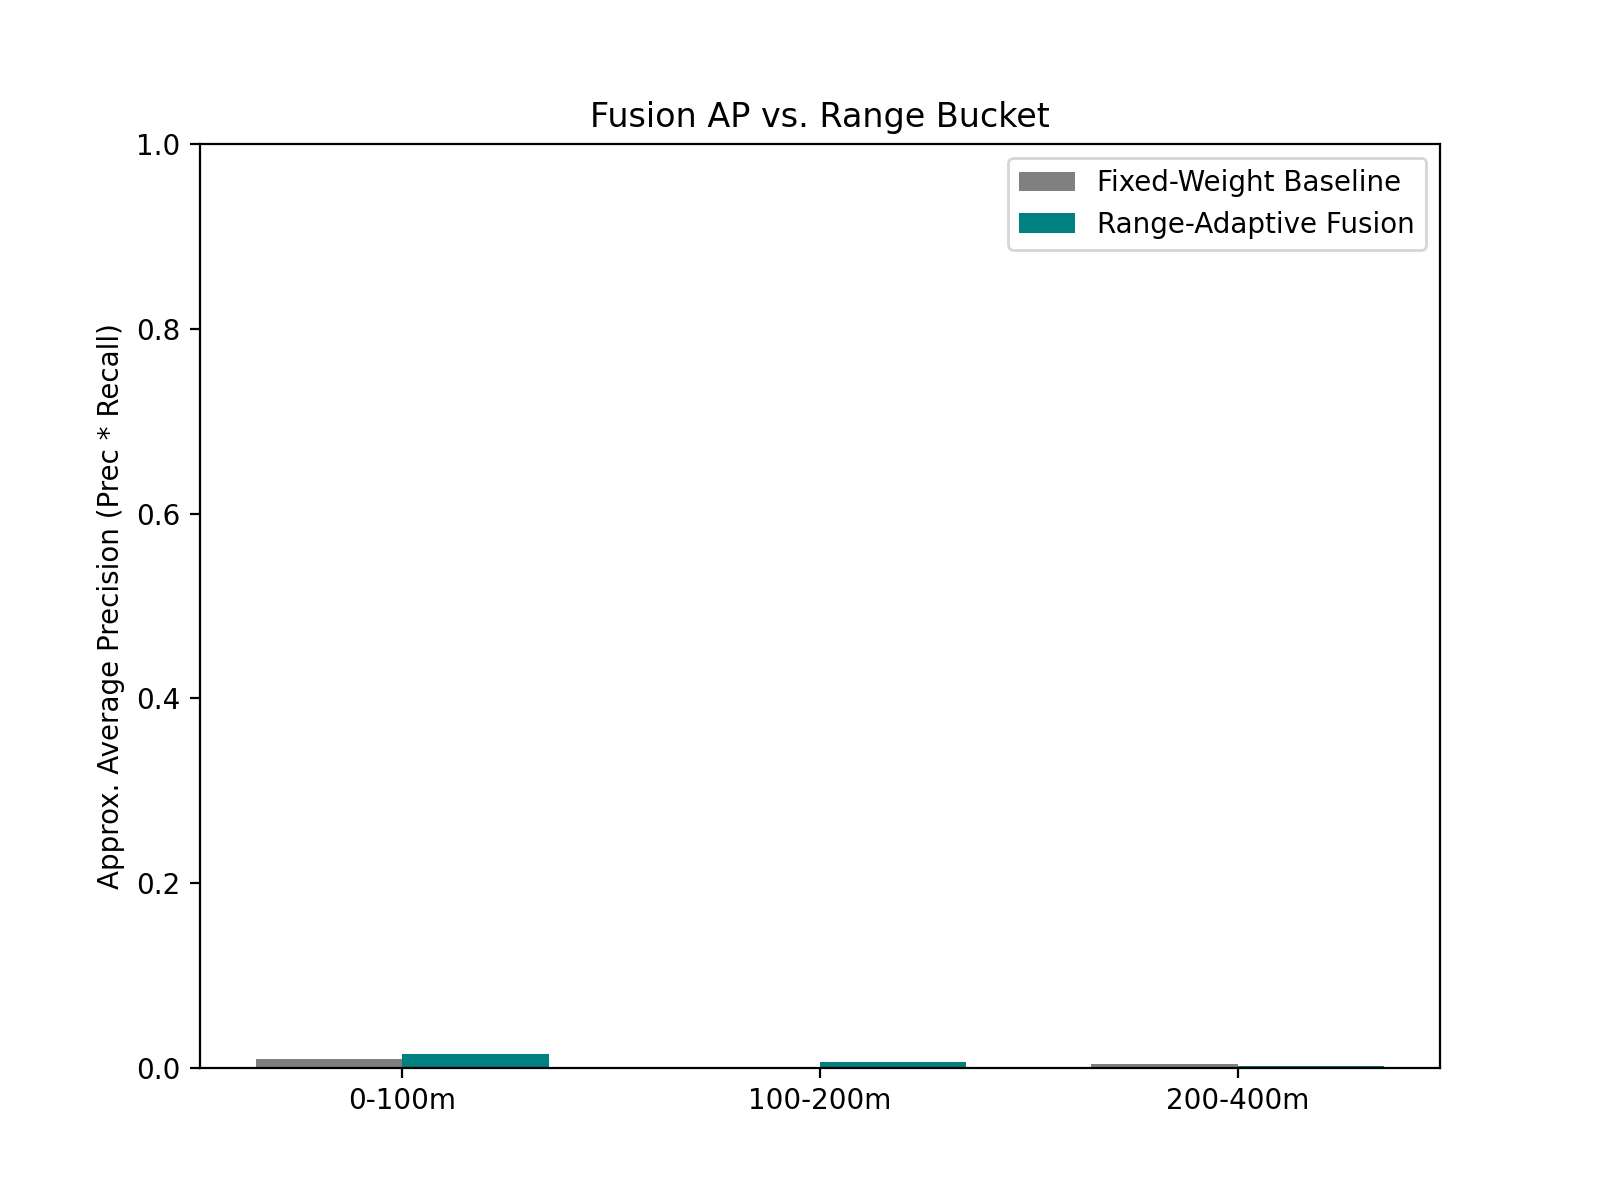
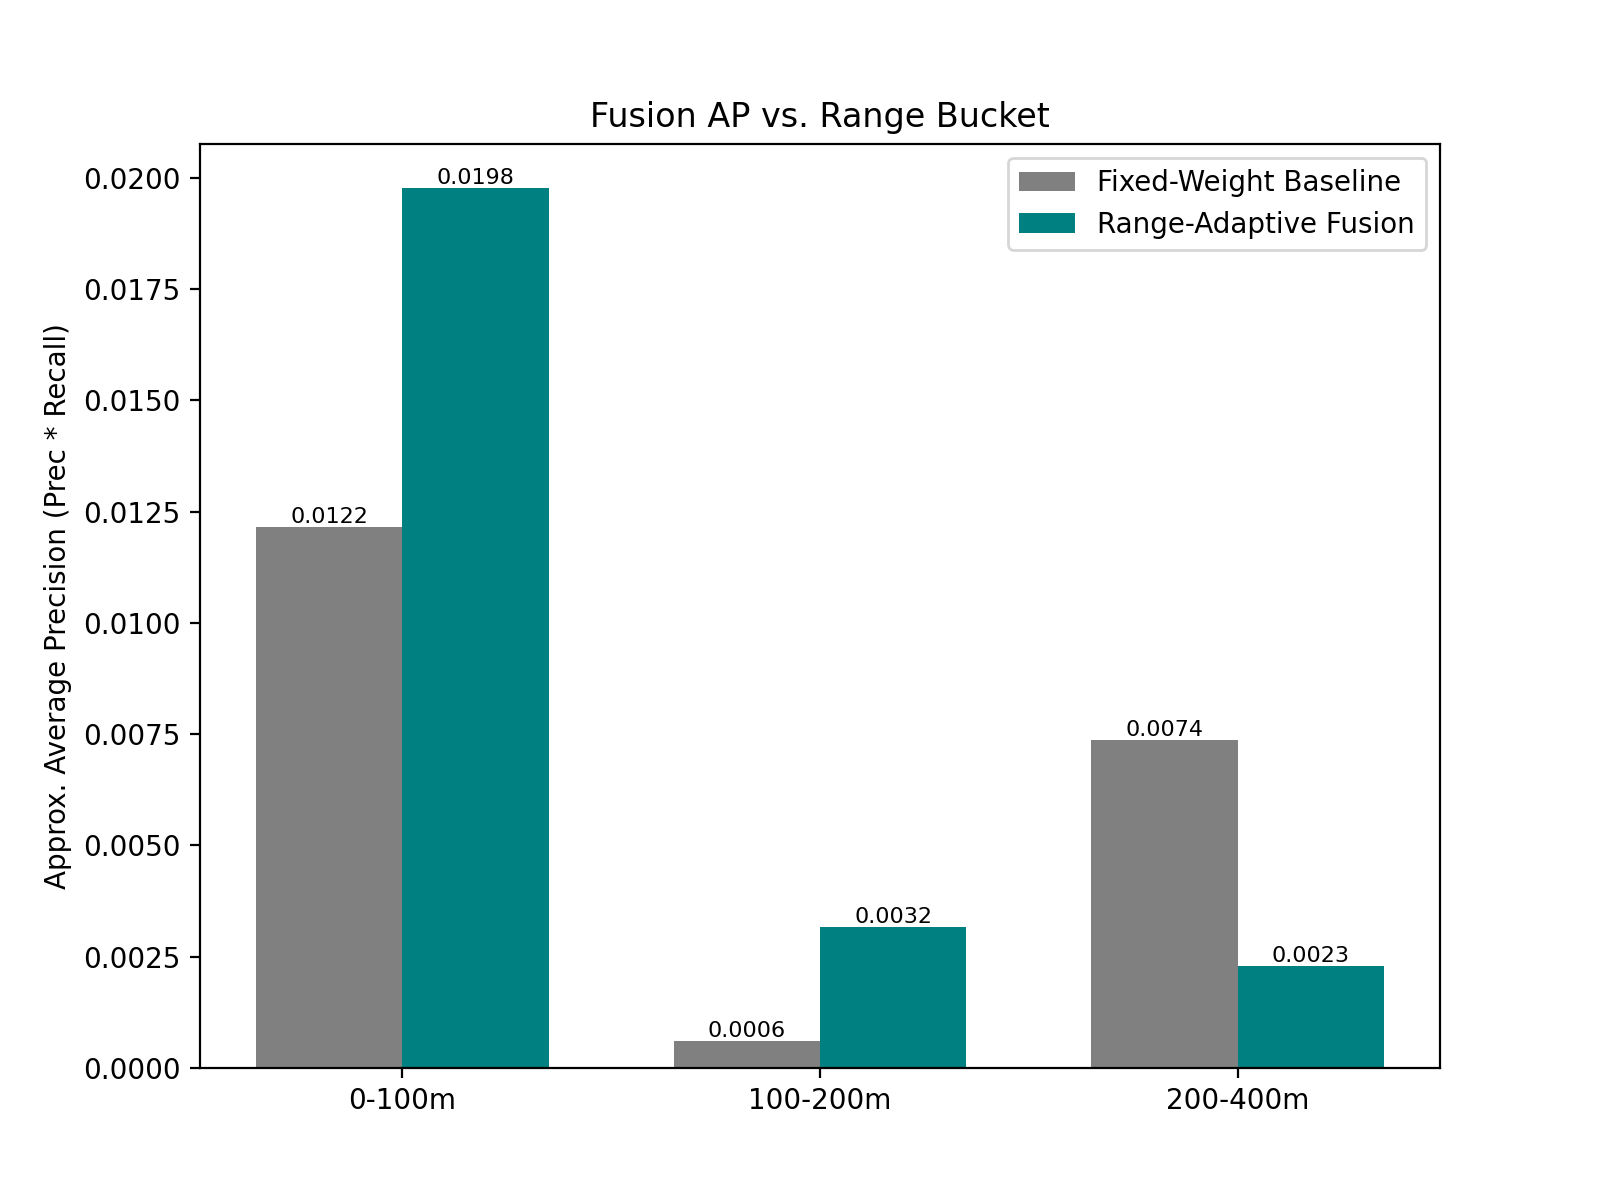
Auto-scale Y-axis for chart and add values

diff --git a/eval/ap_by_range.py b/eval/ap_by_range.py
@@ -113,15 +113,21 @@ def main():
     width = 0.35
     
     fig, ax = plt.subplots(figsize=(8, 6))
-    ax.bar(x - width/2, base_vals, width, label='Fixed-Weight Baseline', color='gray')
-    ax.bar(x + width/2, adapt_vals, width, label='Range-Adaptive Fusion', color='teal')
+    bars1 = ax.bar(x - width/2, base_vals, width, label='Fixed-Weight Baseline', color='gray')
+    bars2 = ax.bar(x + width/2, adapt_vals, width, label='Range-Adaptive Fusion', color='teal')
     
     ax.set_ylabel('Approx. Average Precision (Prec * Recall)')
     ax.set_title('Fusion AP vs. Range Bucket')
     ax.set_xticks(x)
     ax.set_xticklabels(buckets)
     ax.legend()
-    ax.set_ylim([0, 1.0])
+    
+    # Add labels on top of bars
+    for bars in (bars1, bars2):
+        for bar in bars:
+            val = bar.get_height()
+            ax.text(bar.get_x() + bar.get_width()/2., val,
+                    f'{val:.4f}', ha='center', va='bottom', fontsize=8)
     
     if not os.path.exists('eval'):
         os.makedirs('eval')